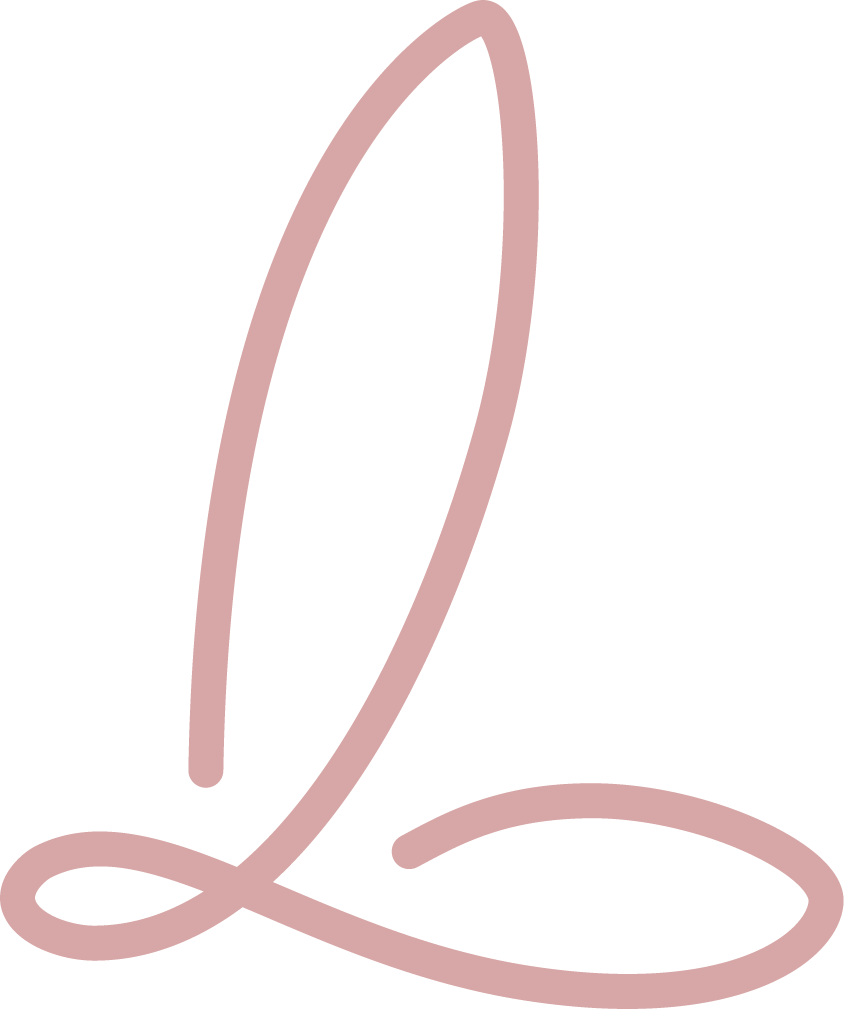
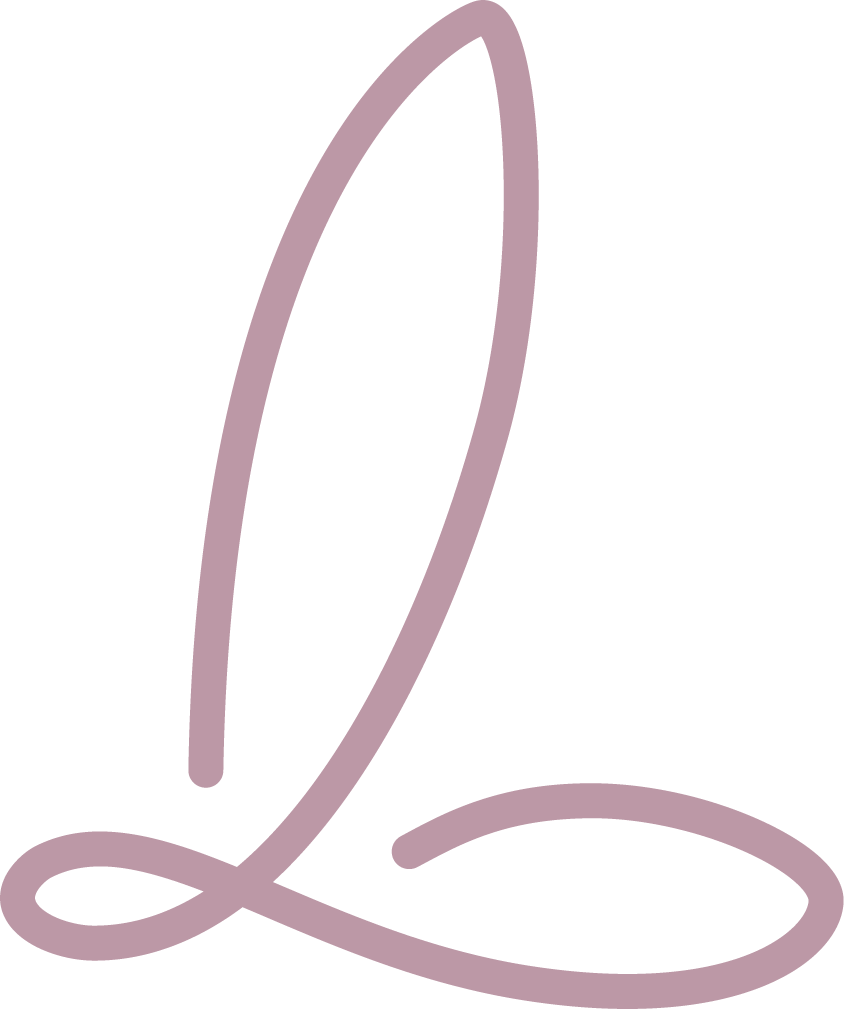
26/02

Changed region(s): [[0.0, 0.0, 1.0, 1.0]]

diff --git a/style.css b/style.css
@@ -1,27 +1,33 @@
+@import url('https://fonts.googleapis.com/css2?family=Poppins:ital,wght@0,100;0,200;0,300;0,400;0,500;0,600;0,700;0,800;0,900;1,100;1,200;1,300;1,400;1,500;1,600;1,700;1,800;1,900&family=Public+Sans:ital,wght@0,100..900;1,100..900&display=swap');
+
+
 * {
     margin: 0;
     padding: 0;
     box-sizing: border-box;
 }
+
 body {
-    font-family: Arial, sans-serif;
+    font-family: "Poppins", system-ui, sans-serif;
+    justify-content: center;
 }
 
 .nav-background {
     width: 100%;
-    background-color: #d7a6b1;
+    background-color: #e0abc0;
     display: flex;
     justify-content: center;
 }
 
 .navbar {
+    border-radius: 15px;
     display: flex;
     justify-content: space-between;
     align-items: center;
     padding: 10px;
-    width: 90%;
+    width: 85%;
     max-width: 1300px;
-    height: 70px;
+    height: 75px;
 }
 
 .logos {
@@ -31,11 +37,20 @@ body {
 }
 
 .logo-l {
-    color: rgb(133, 55, 55);
     font-size: 20px;
     font-weight: bold;
-    transform: translate(10%, 1%);
+    width: 85px;
+    height: 75px;
+    background-image: url(imgs/l1.png);
+    background-size: 85px;
+    background-repeat: no-repeat;
+    background-position: 50% 65%;
 }
+
+.logo-livia {
+    margin-left: -10px;
+}
+
 .nav-links {
     list-style: none;
     display: flex;
@@ -81,4 +96,162 @@ body {
     .nav-links li {
         margin: 10px 0;
     }
+}
+
+main {
+    display: flex;
+    flex-direction: column;
+    justify-content: center;
+    align-items: center;
+    background-color: white;
+}
+
+.home {
+    width: 100%;
+    height: 850px;
+    background: linear-gradient(to top, rgb(243, 250, 255), #ffffff);
+    display: flex;
+    justify-content: space-between;
+    padding-left: 5%;
+}
+
+.text {
+    height: 100%;
+    width: 50%;
+    border-radius: 40px;
+    display: flex;
+    flex-direction: column;
+    justify-content: center;
+    padding: 5%;
+    padding-top: 0;
+    padding-right: 8%;
+}
+
+.text h1 {
+    font-size: 40px;
+    font-weight: 600;
+    margin-bottom: 10px;
+    color: #83aec9;
+    line-height: 55px;
+}
+
+/* azul: #95bfda */
+
+.text p {
+    font-size: 13px;
+    color: #95bfda;
+    margin-bottom: 40px;
+    font-weight: 400;
+}
+
+.photo {
+    height: 100%;
+    width: 50%;
+    background-image: url(imgs/IMG_5040.jpg);
+    background-size: cover;
+    background-position: 50% 40%;
+}
+
+.buttons {
+
+}
+
+.button-1 {
+    background-color: #e5b9ca;
+    color: rgb(255, 255, 255);
+    height: 50px;
+    width: 45%;
+    border: none;
+    border-radius: 25px;
+    font-size: 16px;
+    font-weight: 600;
+}
+
+.button-2 {
+    background-color: transparent;
+    border: 1.5px solid #e5b9ca;
+    color: #e5b9ca;
+    height: 50px;
+    width: 45%;
+    border-radius: 25px;
+    font-size: 16px;
+    font-weight: 600;
+    margin-left: 15px;
+}
+
+.presentation {
+    width: 85%;
+    max-width: 1350px;
+    height: 1000px;
+    display: flex;
+    justify-content: center;
+    align-items: center;
+}
+
+.presentation-text {
+    height: auto;
+    min-height: 700px;
+    width: 40%;
+    margin: 30px;
+    margin-right: 0;
+    display: flex;
+    flex-direction: column;
+}
+
+.presentation-text h2 {
+    font-size: clamp(35px, 3vw, 50px);
+    color: #83aec9;
+    font-weight: 600;
+}
+
+.presentation-text h3 {
+    font-size: 15px;
+    margin-bottom: 20px;
+    font-weight: 400;
+}
+
+.presentation-text p {
+    font-size: 20px;
+    margin-bottom: 15px;
+    font-weight: 500;
+}
+
+.presentation-text-extra {
+    width: 100%;
+    background-color: #83aec9;
+    margin-top: auto;
+    border-radius: 40px;
+    padding: 7%;
+    align-items: center;
+    height: auto;
+}
+
+.presentation-text-extra p{
+    font-size: 16px;
+    margin-bottom: 0px;
+    color: white;
+    
+}
+
+.presentation-photo {
+    height: 700px;
+    width: 40%;
+    margin: 30px;
+    margin-left: 0;
+    background-image: url(imgs/IMG_5020.jpg);
+    background-size: 600px;
+    background-position: 50% 60%;
+    border-radius: 40px;
+}
+
+.benefits {
+    height: 800px;
+    width: 100%;
+    background-color: #e0abc0;
+}
+
+.service {
+    height: 800px;
+    width: 100%;
+    background-color: #83aec9;
 }

diff --git a/index.html b/index.html
@@ -12,8 +12,8 @@
     <div class="nav-background">
         <nav class="navbar">
             <div class="logos">
-                <div class="logo-l"><img src="imgs/l2.png" alt="" style="max-width: 80px;"></div>
-                <div class="logo-livia"><img src="imgs/logonutri2.png" alt="" style="max-width: 170px;"></div>
+                <div class="logo-l"></div>
+                <div class="logo-livia"><img src="imgs/logonutri2.png" alt="" style="max-width: 180px;"></div>
             </div>
             
             <div class="menu-toggle">&#9776;</div>
@@ -25,8 +25,63 @@
                 <li><a href="#contato">Contato</a></li>
                 <li><a href="#contato"><i class="fa-brands fa-instagram"></i></a></li>
             </ul>
-        </nav>
+        </nav> 
     </div>
     
+    <main>
+        <div class="home">
+            <div class="text">
+                <h1>Ajudo o seu filho a desenvolver uma relação saudável e duradoura com a alimentação!
+                </h1>
+                <p> Acompanho gestantes, bebês e crianças na construção de hábitos equilibrados, promovendo saúde e bem-estar. Agende sua consulta!
+                </p>
+                <div class="buttons">
+                    <button class="button-1">Agende uma consulta</button>
+                    <button class="button-2">Como funciona?</button>
+                </div>
+                
+            </div>
+            
+            <div class="photo">
+
+            </div>
+        </div>
+        <div class="presentation">
+            <div class="presentation-photo">
+
+            </div>
+
+            <div class="presentation-text">
+                <h2>Nutri Lívia Santiago</h2>
+                <h3>Olá, seja bem-vinda(o)! Sou Lívia, Nutricionista Materno-Infantil, e meu foco é oferecer um atendimento acolhedor e humanizado!</h3>
+                <p>
+                    <p><b style="color: #e5b9ca;">•</b> Graduada em Nutrição aos 22 anos pelo UNIPÊ</p> 
+                    
+                    <p><b style="color: #e5b9ca;">•</b> Pós-graduada em Nutrição Materno Infantil</p>
+
+                    <p><b style="color: #e5b9ca;">•</b> Apaixonada pela nutrição</p>
+
+                    <p><b style="color: #e5b9ca;">•</b> Pernambucana que se mudou para Paraíba <br></p>
+                    
+                </p>
+                <div class="presentation-text-extra">
+                    <p>
+                        Sou encantada pelo poder da alimentação nos primeiros anos de vida e seu impacto na vida adulta. Através do meu trabalho, sinto que realmente faço a diferença, ajudando a próxima geração a ser mais saudável e ter mais qualidade de vida!
+                    </p>
+                </div>
+            </div>
+            
+        </div>
+
+        <div class="benefits">
+
+        </div>
+
+        <div class="service">
+
+        </div>
+    </main>
+
+
 </body>
 </html>
